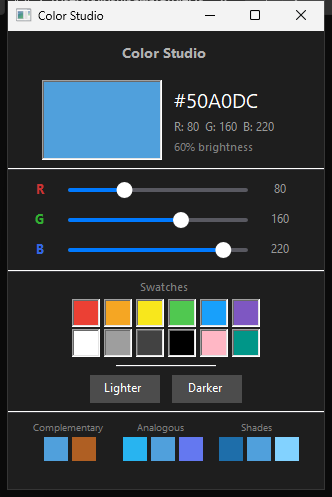
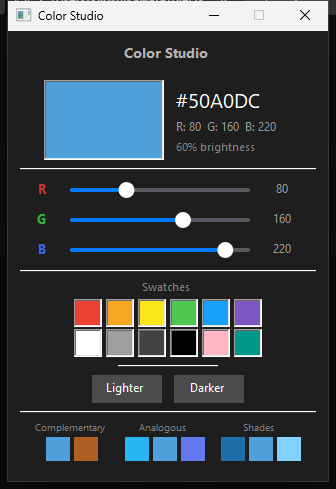
examples: tighten ColorMixer window size and refresh screenshot

diff --git a/Examples/Showcase/ColorMixer/main.swift b/Examples/Showcase/ColorMixer/main.swift
@@ -74,6 +74,9 @@ let presetSwatches: [RGB] = [
 // MARK: - Color Studio View
 
 struct ColorStudioView: View {
+    static let windowWidth = 320.0
+    static let windowHeight = 450.0
+
     @State private var red: Double = 80
     @State private var green: Double = 160
     @State private var blue: Double = 220
@@ -241,6 +244,7 @@ struct ColorStudioView: View {
 
             Spacer()
         }
+        .frame(width: Self.windowWidth, height: Self.windowHeight)
         .background(Color(red: 0.12, green: 0.12, blue: 0.12))
     }
 }
@@ -269,9 +273,21 @@ struct SliderRow: View {
 
 struct ColorMixerApp: App {
     var body: some Scene {
+        #if os(macOS)
         WindowGroup("Color Studio") {
             ColorStudioView()
         }
+        .windowResizability(.contentSize)
+        #else
+        WindowGroup("Color Studio") {
+            ColorStudioView()
+        }
+        .defaultWindowSize(
+            width: ColorStudioView.windowWidth,
+            height: ColorStudioView.windowHeight
+        )
+        .windowSizing(.contentFixed)
+        #endif
     }
 }
 
